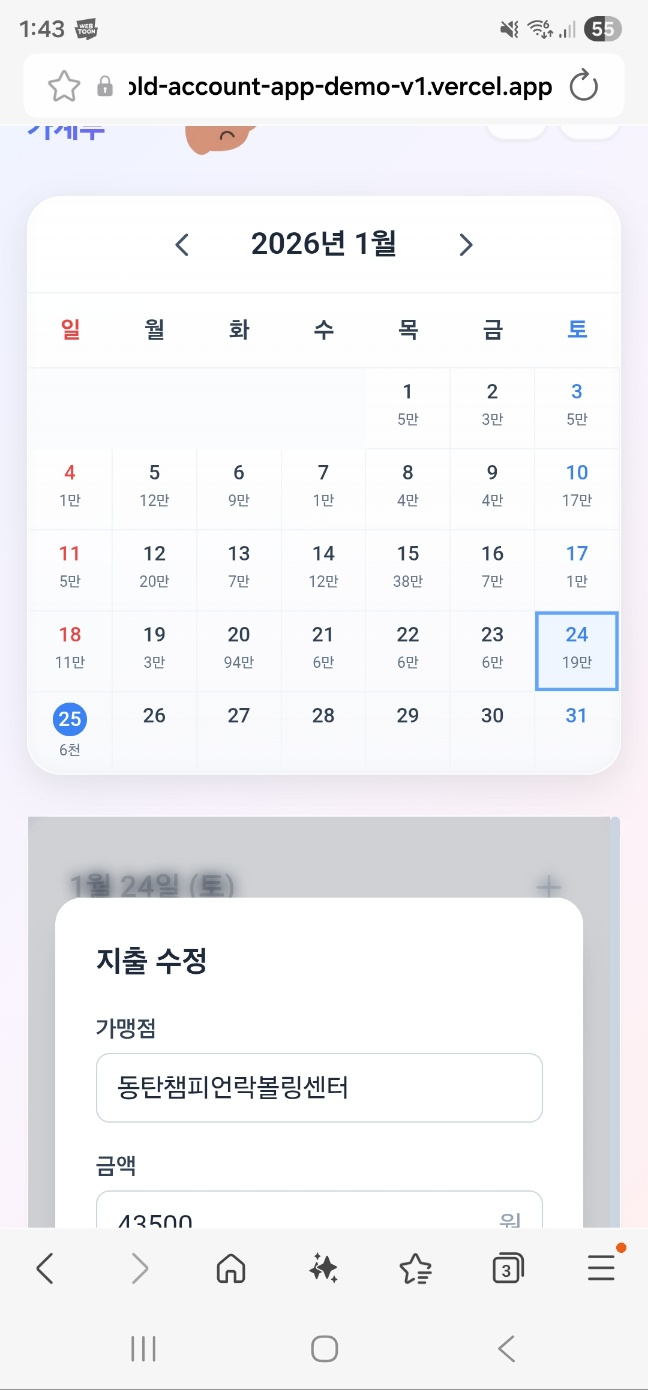
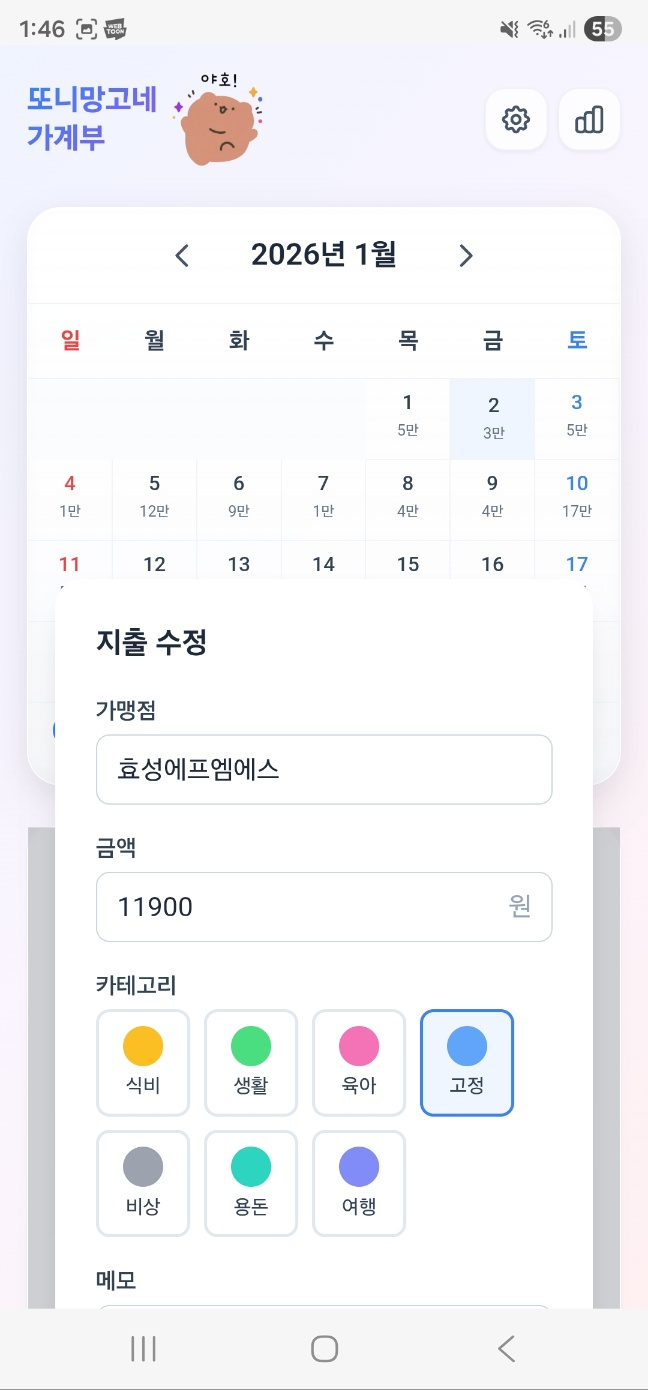
fix: 모든 모달에 Portal 적용
- Calendar 년/월 선택 모달에 Portal 적용
- AddExpenseModal에 Portal 적용
- 모든 모달이 body 레벨에서 렌더링되어
  데스크톱/모바일 모두에서 정상 표시

diff --git a/web/src/components/Calendar.tsx b/web/src/components/Calendar.tsx
@@ -4,6 +4,7 @@ import { useMemo, useState } from 'react';
 import { Expense } from '@/types/expense';
 import { useCategoryContext } from '@/contexts/CategoryContext';
 import { getCalendarStyleClass } from '@/contexts/CalendarStyleContext';
+import Portal from './Portal';
 
 interface CalendarProps {
   year: number;
@@ -155,15 +156,15 @@ export default function Calendar({
 
       {/* 년/월 선택 모달 */}
       {showYearMonthPicker && (
-        <div
-          className="fixed top-0 left-0 right-0 bottom-0 bg-slate-900/20 backdrop-blur-sm z-[9999] flex items-center justify-center p-4"
-          style={{ position: 'fixed' }}
-          onClick={() => setShowYearMonthPicker(false)}
-        >
+        <Portal>
           <div
-            className="bg-white rounded-2xl p-4 shadow-xl w-72"
-            onClick={(e) => e.stopPropagation()}
+            className="fixed inset-0 bg-slate-900/20 backdrop-blur-sm z-[9999] flex items-center justify-center p-4"
+            onClick={() => setShowYearMonthPicker(false)}
           >
+            <div
+              className="bg-white rounded-2xl p-4 shadow-xl w-72"
+              onClick={(e) => e.stopPropagation()}
+            >
             {/* 년도 선택 */}
             <div className="flex items-center justify-between mb-4">
               <button
@@ -215,8 +216,9 @@ export default function Calendar({
             >
               오늘로 이동
             </button>
+            </div>
           </div>
-        </div>
+        </Portal>
       )}
 
       {/* 요일 헤더 */}

diff --git a/web/src/components/AddExpenseModal.tsx b/web/src/components/AddExpenseModal.tsx
@@ -2,6 +2,7 @@
 
 import { useState, useEffect } from 'react';
 import { useCategoryContext } from '@/contexts/CategoryContext';
+import Portal from './Portal';
 
 interface AddExpenseModalProps {
   isOpen: boolean;
@@ -54,8 +55,9 @@ export default function AddExpenseModal({
   if (!isOpen) return null;
 
   return (
-    <div className="fixed inset-0 bg-black/50 flex items-center justify-center z-50">
-      <div className="bg-white rounded-2xl p-6 m-4 max-w-md w-full shadow-xl">
+    <Portal>
+      <div className="fixed inset-0 bg-black/50 flex items-center justify-center z-[9999]">
+        <div className="bg-white rounded-2xl p-6 m-4 max-w-md w-full shadow-xl">
         <h2 className="text-xl font-bold text-slate-800 mb-6">지출 추가</h2>
 
         <div className="space-y-4">
@@ -172,7 +174,8 @@ export default function AddExpenseModal({
             추가
           </button>
         </div>
+        </div>
       </div>
-    </div>
+    </Portal>
   );
 }
